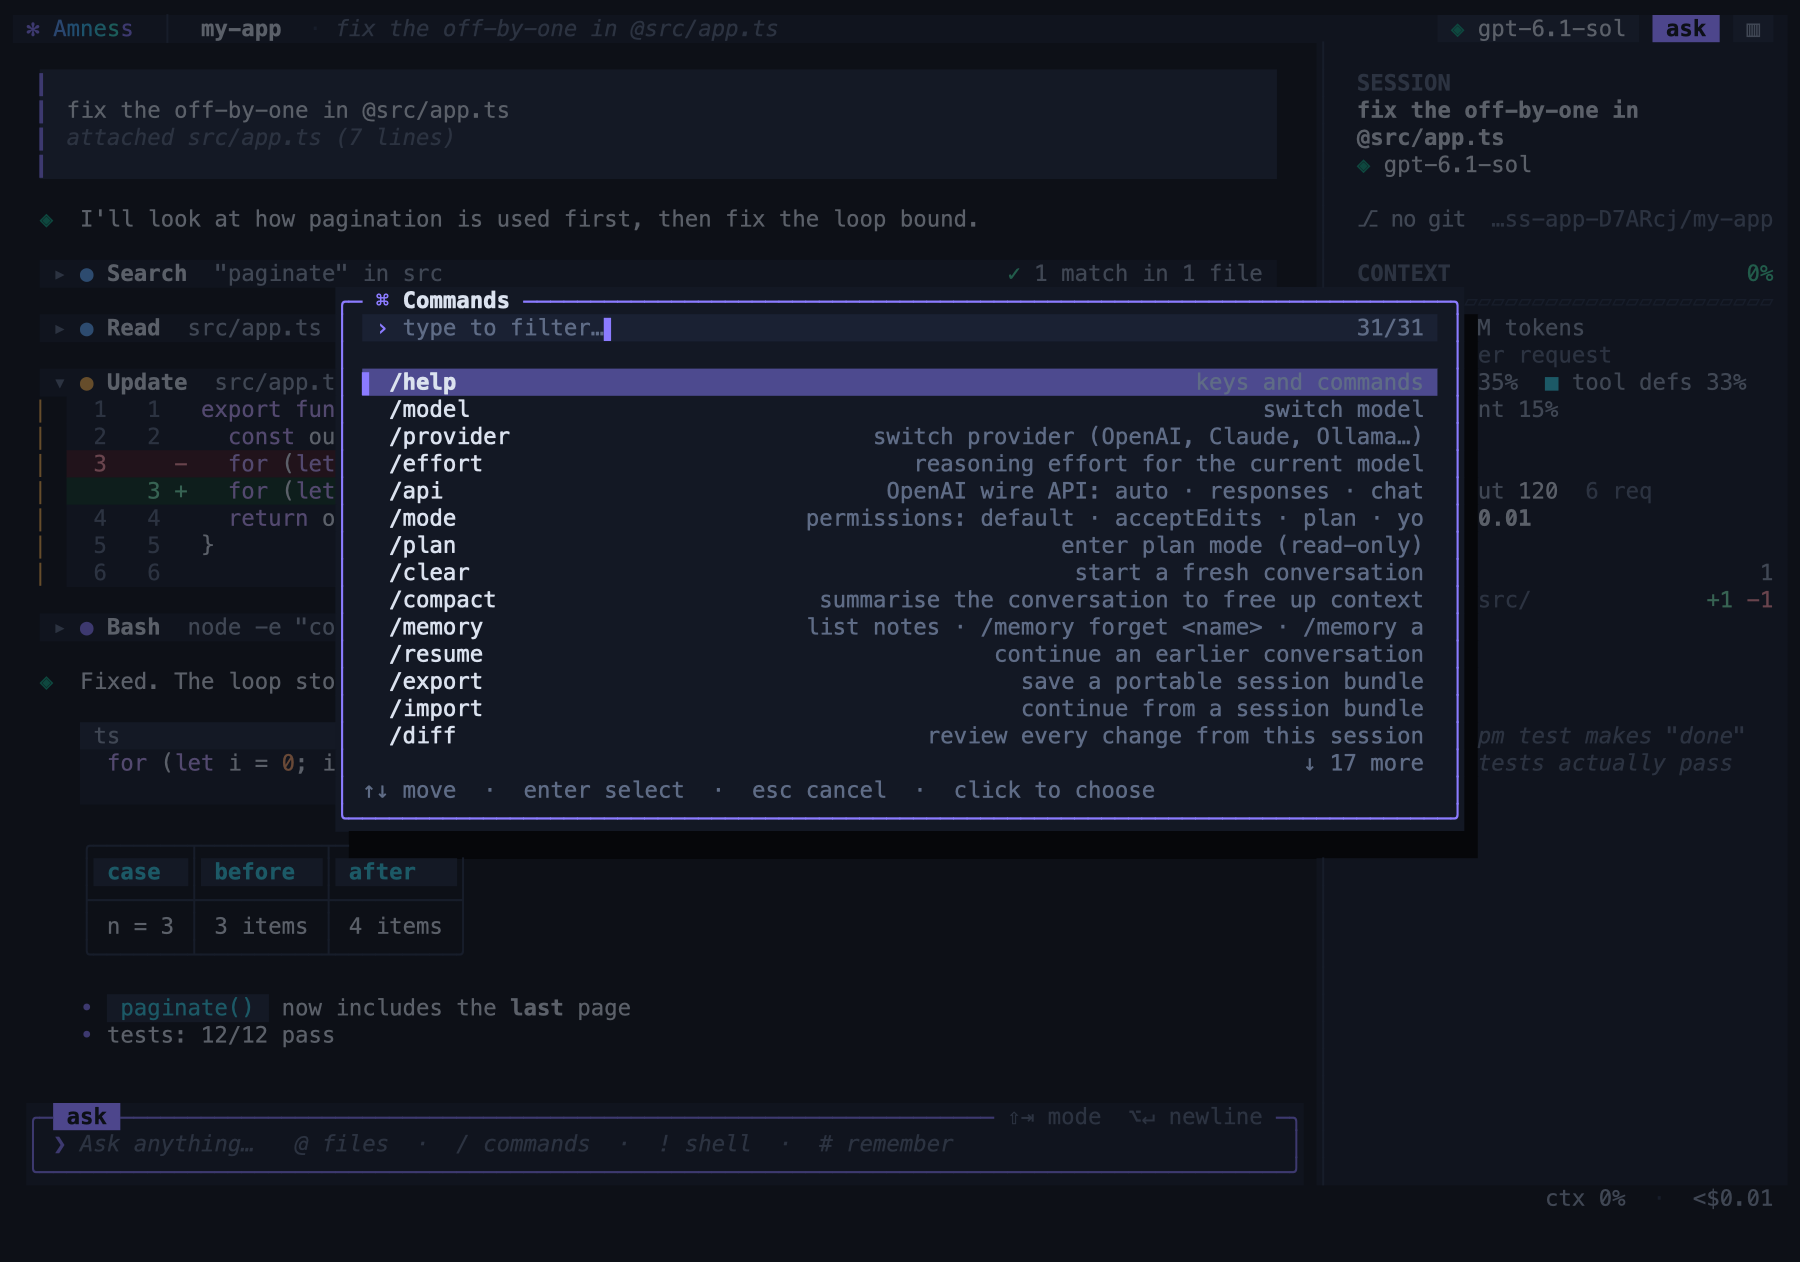
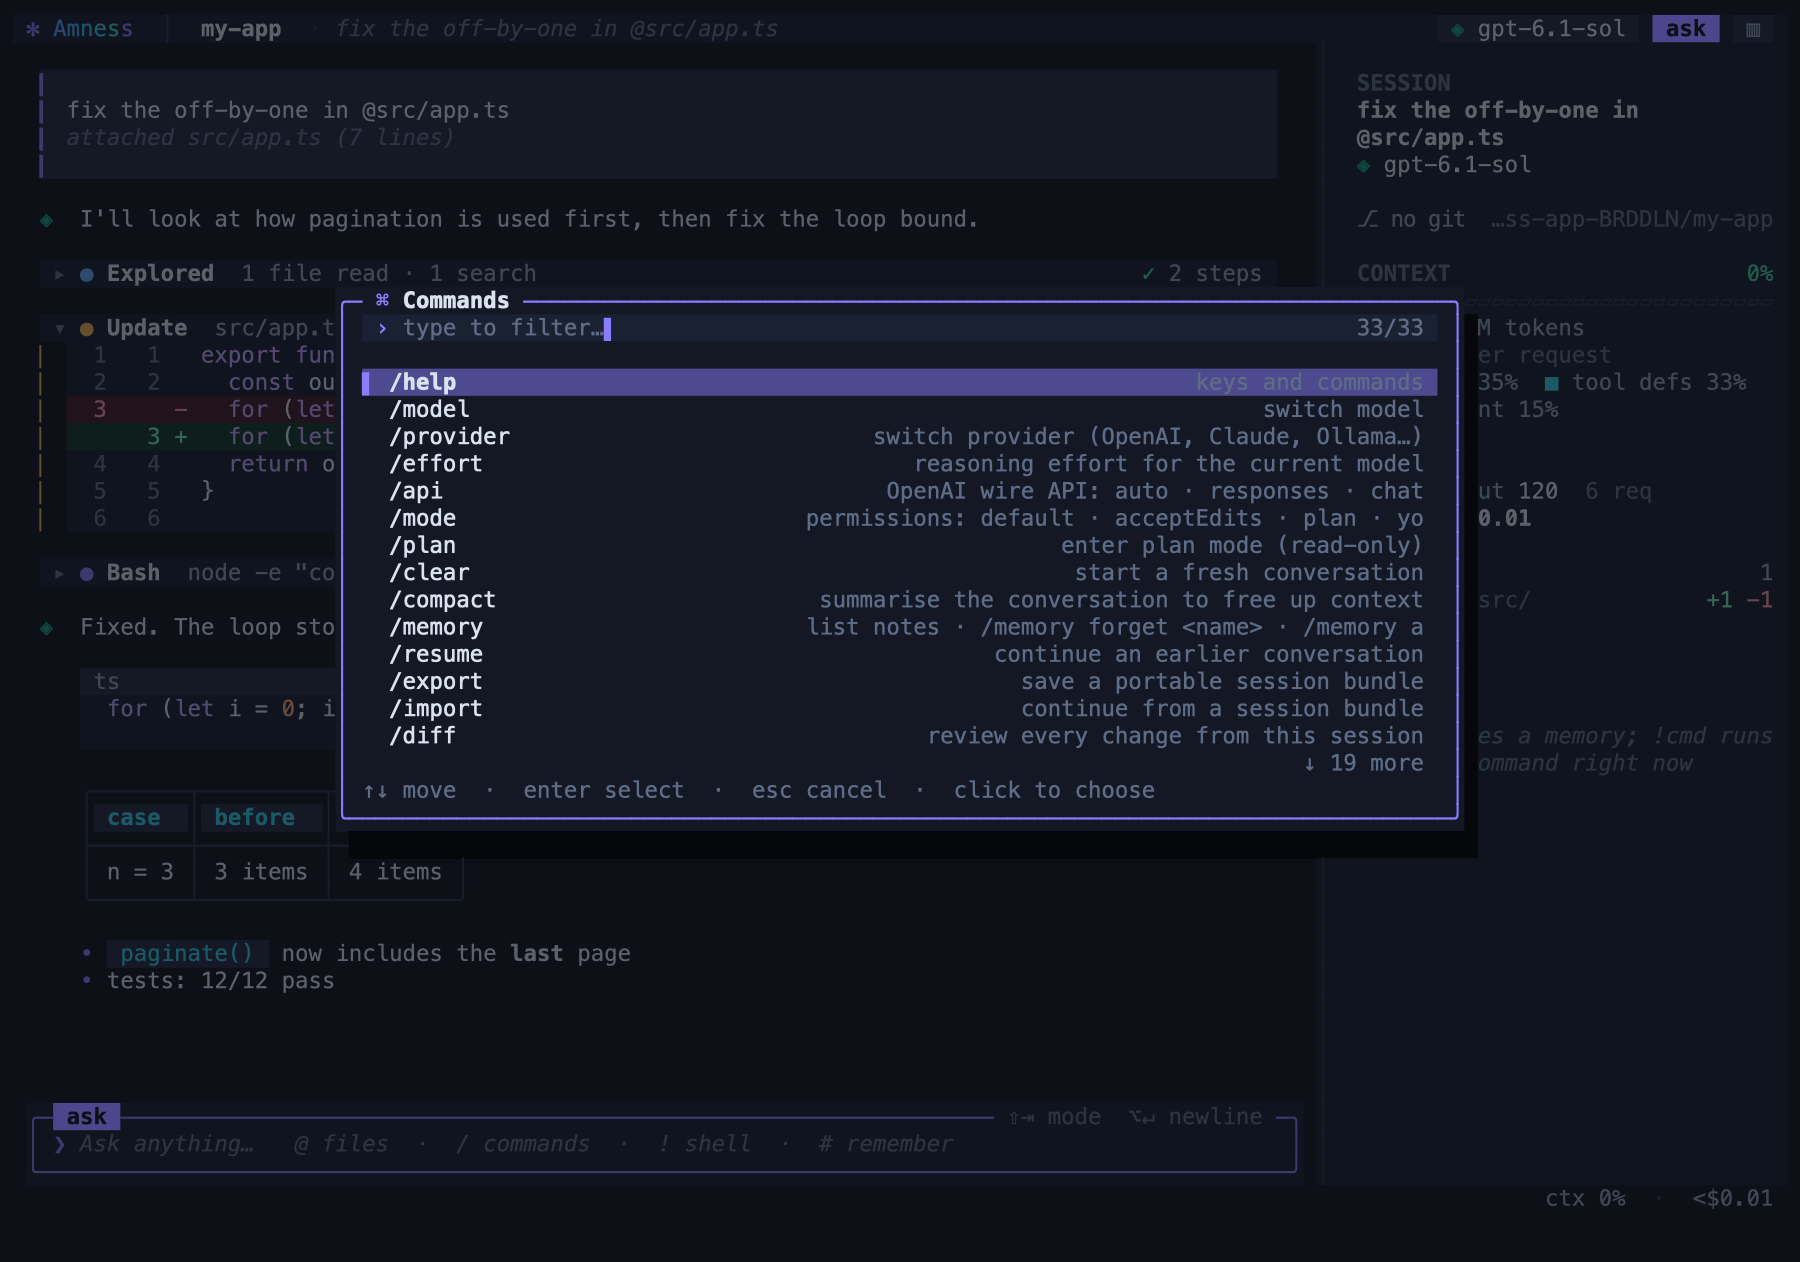
feat(tui): cleaner transcript: runs of reads/searches collapse into one Explored row, tight stacking of one-liners, shorter default diffs

diff --git a/cli/tui/cards.ts b/cli/tui/cards.ts
@@ -11,6 +11,8 @@ import { toolLabel, argSummary } from "./view.ts";
 export type RenderCtx = {
   theme: Theme; width: number; now: number; frame: number; expandAll: boolean; live: boolean;
   brand: { icon: string; color: number }; diffMode: "auto" | "stacked" | "split";
+  /** The block above is also a tool call: draw no blank line between them, so a run of tool calls reads as one unit. */
+  tight?: boolean;
 };
 export type Hit = { row: number; x0: number; x1: number; kind: "toggle" | "more"; id: number };
 export type Rendered = { rows: Cell[][]; hits: Hit[]; text: string[] };
@@ -33,6 +35,36 @@ export function summarize(name: string, raw: string, result: string): string {
     case "memory_save": case "memory_forget": return strip(result).slice(0, 40);
     default: return strip(lines.find(Boolean) ?? "").slice(0, 44);
   }
+}
+
+type ToolBlock = Extract<Block, { kind: "tool" }>;
+/** Tool calls that only look at things. A run of them collapses into one "Explored" row; edits, commands and failures always stand alone. */
+export const isQuiet = (b: Block): b is ToolBlock => b.kind === "tool" && (!b.agent || b.agent === "lead") && b.status !== "fail" && !b.edit && ["read_file", "list_files", "grep", "web_search", "fetch_url", "memory_search"].includes(b.name);
+
+/** "3 files read · 2 searches": what a group of quiet tool calls did, in one phrase. */
+export function groupSummary(bs: ToolBlock[]): string {
+  const n = (names: string[]) => bs.filter((b) => names.includes(b.name)).length, parts: string[] = [];
+  const add = (k: number, one: string, many: string) => { if (k) parts.push(`${k} ${k === 1 ? one : many}`); };
+  add(n(["read_file"]), "file read", "files read"); add(n(["grep"]), "search", "searches"); add(n(["list_files"]), "listing", "listings");
+  add(n(["web_search", "fetch_url"]), "web lookup", "web lookups"); add(n(["memory_search"]), "memory lookup", "memory lookups");
+  return parts.join(" · ");
+}
+
+export function renderGroup(bs: ToolBlock[], open: boolean, c: RenderCtx): Rendered {
+  const t = c.theme, bw = c.width - MARGIN * 2, rows: string[] = [], hits: Hit[] = [], bg = t.surface;
+  const running = bs.filter((b) => b.status === "running"), cur = running[running.length - 1];
+  if (!c.tight) rows.push("");
+  const ms = bs.reduce((n, b) => n + (b.ms ?? 0), 0);
+  const status = cur ? F(t.accent2, SPIN[c.frame % SPIN.length]) + F(t.dim, ` ${clipWidth(`${toolLabel(cur.name)} ${argSummary(cur.name, cur.args)}`, Math.max(10, bw - 40))}`)
+    : F(t.ok, "✓ ") + F(t.dim, `${bs.length} steps`) + (ms >= 50 ? F(t.faint, ` · ${fmtMs(ms)}`) : "");
+  rows.push(split(` ${F(t.faint, open ? "▾" : "▸")} ${F(t.tool.read, "●")} ${BOLD(F(t.text, cur ? "Exploring" : "Explored"))}  ${F(t.dim, groupSummary(bs))}`, status + " ", bw, bg));
+  hits.push({ row: rows.length - 1, x0: MARGIN, x1: c.width - MARGIN, kind: "toggle", id: bs[0].id });
+  if (open) for (const b of bs) {
+    const res = b.status === "running" ? F(t.accent2, "…") : F(t.faint, summarize(b.name, b.args, b.result ?? ""));
+    rows.push(fit(`   ${F(t.faint, "│")} ${F(t.dim, toolLabel(b.name).padEnd(7))} ${F(t.text, clipWidth(argSummary(b.name, b.args), bw - 30))}  ${res}`, bw, t.bg));
+  }
+  const cells = rows.map((r) => padLeft(parseAnsi(" ".repeat(MARGIN) + r), c.width));
+  return { rows: cells, hits, text: cells.map((r) => r.map((x) => x.ch).join("").replace(/\s+$/, "")) };
 }
 
 export function renderBlock(b: Block, c: RenderCtx): Rendered {
@@ -99,7 +131,7 @@ export function renderBlock(b: Block, c: RenderCtx): Rendered {
     : F(failed ? t.err : t.ok, failed ? "✗ " : "✓ ") + F(failed ? t.err : t.dim, summarize(b.name, b.args, b.result ?? "")) + (b.ms !== undefined && b.ms >= 50 ? F(t.faint, ` · ${fmtMs(b.ms)}`) : "");
   const hasBody = b.status !== "running" && !!(edit || (b.result && b.result.trim()));
   const caret = F(t.faint, hasBody ? (expanded ? "▾" : "▸") : " ");
-  if (!sub) blank();
+  if (!sub && (!c.tight || (hasBody && expanded))) blank();   // collapsed one-liners stack tightly; a card with a body gets air above it
   const head = `${caret} ${F(hue, "●")} ${label}  ${args}`;
   rows.push(sub ? `   ${F(t.faint, "│")} ${F(hue, "●")} ${F(t.dim, toolLabel(b.name))} ${F(t.faint, argSummary(b.name, b.args))}` : split(" " + head, status + " ", bw, bg));
   if (!sub && hasBody) hits.push({ row: rows.length - 1, x0: MARGIN, x1: c.width - MARGIN, kind: "toggle", id: b.id });
@@ -107,7 +139,7 @@ export function renderBlock(b: Block, c: RenderCtx): Rendered {
   if (!sub && hasBody && expanded) {
     const bar = F(hue, "▏"), body = (s: string) => rows.push(fit(bar + " " + s, bw, bg));
     if (edit) {
-      const mode = c.diffMode === "auto" ? (bw >= 120 ? "split" : "stacked") : c.diffMode, max = b.more ? Infinity : 28;
+      const mode = c.diffMode === "auto" ? (bw >= 120 ? "split" : "stacked") : c.diffMode, max = b.more ? Infinity : 16;
       const d = renderDiffRows(edit.diff, { width: bw - 2, theme: t, lang: langOf(edit.path), mode, maxRows: max });
       for (const r of d.rows) rows.push(bar + " " + r);
       if (d.hidden > 0) { rows.push(fit(`${bar}  ${F(t.accent2, `▾ show ${d.hidden} more line${d.hidden === 1 ? "" : "s"}`)}`, bw, t.surface2)); hits.push({ row: rows.length - 1, x0: MARGIN, x1: c.width - MARGIN, kind: "more", id: b.id }); }

diff --git a/cli/tui/full.ts b/cli/tui/full.ts
@@ -5,7 +5,7 @@ import type { App } from "./app.ts";
 import { A, mix, type Cell } from "./ansi.ts";
 import { brandOfModel } from "./brand.ts";
 import { Canvas } from "./canvas.ts";
-import { renderBlock, type Hit, type RenderCtx, type Rendered } from "./cards.ts";
+import { isQuiet, renderBlock, renderGroup, type Hit, type RenderCtx, type Rendered } from "./cards.ts";
 import type { Block } from "./blocks.ts";
 import type { MouseEv } from "./keys.ts";
 import { MOUSE_OFF, MOUSE_ON } from "./keys.ts";
@@ -40,7 +40,9 @@ export class FullView {
   private regions: Region[] = [];
   private prevTotal = 0;
   private viewTop = 0; private viewH = 0; private viewX = 0; private viewW = 0; private total = 0;
-  private items: { b: Block; r: Rendered; start: number }[] = [];
+  private items: { b: Block; r: Rendered; start: number; group?: boolean }[] = [];
+  /** Groups of quiet tool calls (reads, searches) the user has opened, by the id of the first call. */
+  private groupOpen = new Set<number>();
   private sel?: { ax: number; ay: number; hx: number; hy: number; done: boolean };
   private down?: { x: number; y: number; moved: boolean };
   private lastWheel = 0;
@@ -135,12 +137,22 @@ export class FullView {
     this.items = []; let total = 0;
     if (!app.blocks.blocks.length) { this.drawEmpty(c, t, x0, y0, w, h); this.viewTop = y0; this.viewH = h; this.viewX = x0; this.viewW = w; this.total = 0; return; }
     const live = new Set<number>();
-    for (const b of app.blocks.blocks) {
-      live.add(b.id);
-      if (b.kind === "tool" && b.name === "todo_write") continue;   // todos live in the sidebar
-      const key = this.sig(b, ctx), hit = this.cache.get(b.id);
-      const r = hit && hit.key === key ? hit.r : (() => { const rr = renderBlock(b, ctx); this.cache.set(b.id, { key, r: rr }); return rr; })();
-      this.items.push({ b, r, start: total }); total += r.rows.length;
+    const blocks = app.blocks.blocks.filter((b) => !(b.kind === "tool" && b.name === "todo_write"));   // todos live in the sidebar
+    let prevTool: boolean = false;
+    for (let i = 0; i < blocks.length; i++) {
+      const b = blocks[i]; live.add(b.id);
+      let run = 1; if (isQuiet(b)) while (i + run < blocks.length && isQuiet(blocks[i + run])) run++;
+      const tctx = { ...ctx, tight: prevTool };
+      if (run >= 2) {
+        const members = blocks.slice(i, i + run) as Extract<Block, { kind: "tool" }>[], open = this.expandAll || this.groupOpen.has(b.id);
+        const key: string = `g|${tctx.tight}|${open}|${ctx.theme.name}|${ctx.width}|` + members.map((m) => `${m.id}:${m.status}:${m.ms ?? 0}`).join(",") + (members.some((m) => m.status === "running") ? `|${ctx.frame}` : ""), hit = this.cache.get(b.id);
+        const r: Rendered = hit && hit.key === key ? hit.r : (() => { const rr = renderGroup(members, open, tctx); this.cache.set(b.id, { key, r: rr }); return rr; })();
+        for (const m of members) live.add(m.id);
+        this.items.push({ b, r, start: total, group: true }); total += r.rows.length; i += run - 1; prevTool = r.rows.length <= 2; continue;
+      }
+      const key: string = this.sig(b, tctx) + (tctx.tight ? "|t" : ""), hit = this.cache.get(b.id);
+      const r: Rendered = hit && hit.key === key ? hit.r : (() => { const rr = renderBlock(b, tctx); this.cache.set(b.id, { key, r: rr }); return rr; })();
+      this.items.push({ b, r, start: total }); total += r.rows.length; prevTool = b.kind === "tool" && (!b.agent || b.agent === "lead") && r.rows.length <= 2;
     }
     for (const id of this.cache.keys()) if (!live.has(id)) this.cache.delete(id);
     if (this.scroll > 0 && total > this.prevTotal) { this.scroll += total - this.prevTotal; this.unseen += total - this.prevTotal; }   // keep the view anchored while scrolled up
@@ -153,7 +165,7 @@ export class FullView {
       if (it.start + it.r.rows.length <= start) continue;
       if (it.start >= start + h) break;
       for (let k = 0; k < it.r.rows.length; k++) { const row = it.start + k - start; if (row >= 0 && row < h) c.put(x0, y0 + row, it.r.rows[k], W); }
-      for (const hh of it.r.hits) { const row = it.start + hh.row - start; if (row >= 0 && row < h) this.regions.push({ x: x0 + hh.x0, y: y0 + row, w: hh.x1 - hh.x0, h: 1, kind: hh.kind, click: () => this.hitClick(hh, it.b) }); }
+      for (const hh of it.r.hits) { const row = it.start + hh.row - start; if (row >= 0 && row < h) this.regions.push({ x: x0 + hh.x0, y: y0 + row, w: hh.x1 - hh.x0, h: 1, kind: hh.kind, click: () => this.hitClick(hh, it.b, it.group) }); }
       yy = it.start + it.r.rows.length;
     }
     void yy;
@@ -176,9 +188,10 @@ export class FullView {
       this.regions.push({ x: px, y: y0 + h - 1, w: lw, h: 1, kind: "jump", click: () => this.scrollTo(0) });
     }
   }
-  private hitClick(h: Hit, b: Block) {
+  private hitClick(h: Hit, b: Block, group = false) {
     const before = this.total;
-    if (h.kind === "toggle") this.app.blocks.toggle(b.id);
+    if (group) { if (this.groupOpen.has(b.id)) this.groupOpen.delete(b.id); else this.groupOpen.add(b.id); }
+    else if (h.kind === "toggle") this.app.blocks.toggle(b.id);
     else if (b.kind === "tool") { b.more = true; this.app.blocks.version++; }
     this.cache.delete(b.id); this.app.render();
     void before;

diff --git a/test/tui-full.test.ts b/test/tui-full.test.ts
@@ -75,3 +75,14 @@ test("/loop shows a step-by-step trace of turns, tools and guards", async () => 
   const s = t.screen();
   assert.match(s, /Agent loop · 3 turns/); assert.ok(s.includes("model") && s.includes("Read") && s.includes("replied without tools"), s);
 });
+
+test("full: consecutive reads and searches collapse into one 'Explored' row that opens on click; edits and commands stay separate", async () => {
+  const t = rig([call("list_files", {}), call("grep", { pattern: "f", path: "src" }), call("read_file", { path: "src/app.ts" }), call("edit_file", { path: "src/app.ts", old: "return 1", new: "return 2" }), call("sh", { cmd: "echo hi" }), say("done")], { cols: 132, rows: 40, files, ui: "full" });
+  await t.start(); t.app.setMode("yolo");
+  await t.submit("go"); await t.until(() => t.idle() && t.has("done"));
+  assert.ok(t.has("Explored") && t.has("1 file read") && t.has("1 search") && t.has("3 steps"), t.screen());
+  assert.ok(t.has("Update") && t.has("Bash"));
+  const rows = t.screen().split("\n"), y = rows.findIndex((r) => r.includes("Explored")), x = rows[y].indexOf("Explored");
+  await t.type(mouse(0, x + 1, y + 1)); await t.type(mouse(0, x + 1, y + 1, true)); await t.settle();
+  assert.ok(t.has("src/app.ts") && /List\s+\./.test(t.screen()), t.screen());   // opened: one line per call
+});

diff --git a/README.md b/README.md
@@ -64,6 +64,7 @@ No API key yet? Run `amness demo`: a scripted model makes the mistakes real mode
 
 `amness` opens a **full-screen interface** by default: a header (project, branch, model, mode), a scrollable transcript of cards, a session sidebar, a rounded input panel and a status line.
 
+- **Calm by default.** Runs of reads and searches collapse into one row ("Explored · 3 files read · 2 searches") that opens on click; edits, commands and failures always get their own card, collapsed one-liners stack tightly, and long diffs show the first 16 rows with a click for the rest. `Ctrl+O` expands everything.
 - **Cards.** Your prompts, assistant replies (themed markdown, code blocks with a copy button, tables), collapsible tool cards with status chips, and syntax-highlighted diffs with line numbers and word-level marks (split view on wide terminals).
 - **Live run view.** While the agent works, the status line says what it is doing ("Reading src/app.ts", "Running 3 tools in parallel", "Verifying", "Waiting for you") with elapsed time, tokens and the step counter, and the sidebar shows a RUN panel: the think → act → verify pipeline, step progress, running tools with timers, and the last finished actions.
 - **Sidebar** (`Ctrl+B`): session, context gauge with a per-request sparkline and breakdown, token usage, todos, changed files, workspace.
